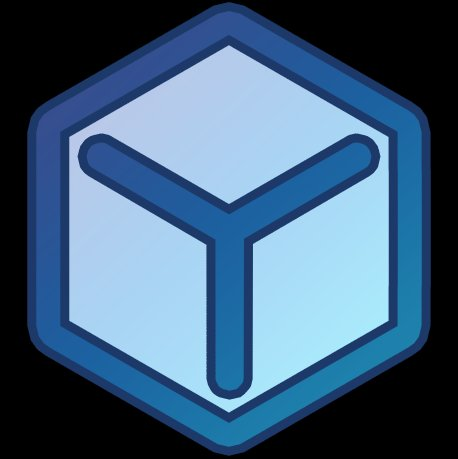
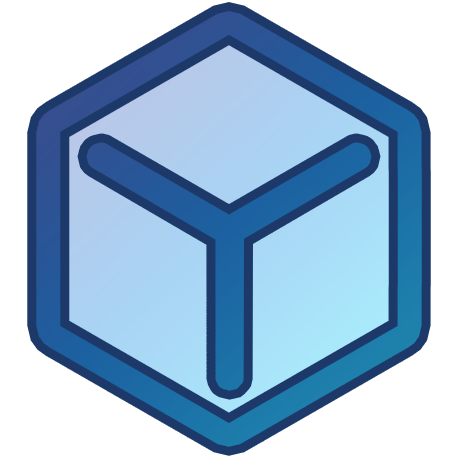
Add files via upload

diff --git a/index.html b/index.html
@@ -3,13 +3,14 @@
   <head>
     <meta charset="UTF-8" />
     <meta name="viewport" content="width=device-width, initial-scale=1.0" />
-    <meta name="description" content="STORA — Warehouse Management System" />
-    <meta name="theme-color" content="#080810" />
+    <meta name="description" content="STORA — Storage Management System" />
+    <meta name="theme-color" content="#07070f" />
     <meta name="mobile-web-app-capable" content="yes" />
     <meta name="apple-mobile-web-app-capable" content="yes" />
     <meta name="apple-mobile-web-app-status-bar-style" content="black-translucent" />
     <meta name="apple-mobile-web-app-title" content="STORA" />
-    <link rel="icon" type="image/png" href="/Stora/favicon.png" />
+    <link rel="icon" type="image/png" sizes="192x192" href="/Stora/favicon.png" />
+    <link rel="apple-touch-icon" sizes="180x180" href="/Stora/favicon.png" />
     <link rel="apple-touch-icon" href="/Stora/favicon.png" />
     <link rel="manifest" href="/Stora/manifest.webmanifest" />
     <title>STORA</title>